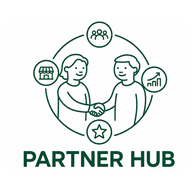
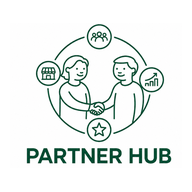
Add files via upload

Changed region(s): [[0.0938, 0.0938, 0.9062, 0.875]]

diff --git a/app.js b/app.js
@@ -1,1 +1,26 @@
-const PH=window.PH||{d:{tiendas:[],turnos:[],puestos:[],regiones:[],dms:[],meses:[]},r:[]};const D=PH.d;const rows=PH.r.map(a=>({num:a[0],nombre:a[1],ingreso:a[2],tienda:D.tiendas[a[3]]||'',turno:D.turnos[a[4]]||'',puesto:D.puestos[a[5]]||'',region:D.regiones[a[6]]||'',sexo:a[7]||'',nac:a[8],dm:D.dms[a[9]]||'',mes:D.meses[a[10]]||''}));const $=s=>document.querySelector(s);const $$=s=>[...document.querySelectorAll(s)];const monthNames=['Enero','Febrero','Marzo','Abril','Mayo','Junio','Julio','Agosto','Septiembre','Octubre','Noviembre','Diciembre'];function fmtMonth(d){let x=new Date(d+'T00:00:00');return isNaN(x)?d:monthNames[x.getMonth()]+' '+x.getFullYear()}function ymd(d){return new Date(d+'T00:00:00')}function yearsBetween(from,to){let a=ymd(from),b=ymd(to);if(isNaN(a)||isNaN(b))return 0;let y=b.getFullYear()-a.getFullYear();if(b.getMonth()<a.getMonth()||(b.getMonth()==a.getMonth()&&b.getDate()<a.getDate()))y--;return Math.max(0,y)}function dayOf(d){let x=ymd(d);return isNaN(x)?'--':String(x.getDate()).padStart(2,'0')}function monthNum(d){let x=ymd(d);return isNaN(x)?0:x.getMonth()+1}function unique(a){return [...new Set(a.filter(Boolean))].sort((x,y)=>String(x).localeCompare(String(y),'es'))}const regions=unique(D.regiones);const months=unique(D.meses).sort();function opt(el,items,all){el.innerHTML=(all?`<option value="">${all}</option>`:'')+items.map(v=>`<option value="${String(v).replaceAll('"','&quot;')}">${v.includes('-')?fmtMonth(v):v}</option>`).join('')}opt($('#regionFilter'),regions,'Todas');opt($('#monthFilter'),months,'');let now=new Date();let same=months.find(m=>{let x=ymd(m);return x.getFullYear()==now.getFullYear()&&x.getMonth()==now.getMonth()});$('#monthFilter').value=same||months.at(-1)||'';function base(){let reg=$('#regionFilter').value, mes=$('#monthFilter').value;return rows.filter(r=>(!reg||r.region==reg)&&(!mes||r.mes==mes))}function setStoreOptions(){let data=base(),stores=unique(data.map(r=>r.tienda)),cur=$('#storeFilter').value;opt($('#storeFilter'),stores,'Todas las tiendas');if(stores.includes(cur))$('#storeFilter').value=cur;let a=$('#annivStore').value,b=$('#birthStore').value;opt($('#annivStore'),stores,'Todas las tiendas');opt($('#birthStore'),stores,'Todas las tiendas');if(stores.includes(a))$('#annivStore').value=a;if(stores.includes(b))$('#birthStore').value=b}function roleKey(p){let s=(p||'').toLowerCase();if(s.includes('gerente')&&!s.includes('sub'))return'Gerente';if(s.includes('sub'))return'Subgerente';if(s.includes('super'))return'Supervisor';return'Baristas'}function filteredStore(data){let st=$('#storeFilter').value;return data.filter(r=>!st||r.tienda==st)}function renderPartners(){setStoreOptions();let data=filteredStore(base());$('#kpiPartners').textContent=data.length;$('#kpiStores').textContent=unique(data.map(r=>r.tienda)).length;$('#kpiDM').textContent=unique(data.map(r=>r.dm)).length;let f=data.filter(r=>r.sexo=='F').length,m=data.filter(r=>r.sexo=='M').length,t=f+m,fp=t?Math.round(f/t*100):0,mp=t?100-fp:0;$('#femalePct').textContent=fp+'%';$('#malePct').textContent=mp+'%';$('#genderText').textContent=fp+'%';$('#genderDonut').style.background=`conic-gradient(var(--green) 0 ${fp*3.6}deg,#cfe2d9 ${fp*3.6}deg 360deg)`;let html='',order=['Gerente','Subgerente','Supervisor','Baristas'];for(let role of order){let list=data.filter(r=>roleKey(r.puesto)==role).sort((a,b)=>a.nombre.localeCompare(b.nombre,'es'));html+=`<section class="role"><h3>${role}<span class="badge">${list.length}</span></h3>`+(list.length?list.map(r=>`<div class="partner" data-num="${r.num}" data-mes="${r.mes}"><div><strong>${r.nombre}</strong><small>${r.puesto} · ${r.tienda}</small></div><span class="badge">${r.turno||'—'}</span></div>`).join(''):'<div class="empty">Sin partners</div>')+`</section>`}$('#hierarchy').innerHTML=html;$$('.partner').forEach(el=>el.onclick=()=>showDetail(rows.find(r=>r.num==el.dataset.num&&r.mes==el.dataset.mes)))}function showDetail(r){if(!r)return;$('#detailBody').innerHTML=`<h2>${r.nombre}</h2><dl><dt># Empleado</dt><dd>${r.num}</dd><dt>Puesto</dt><dd>${r.puesto}</dd><dt>Tienda</dt><dd>${r.tienda}</dd><dt>Jornada</dt><dd>${r.turno}</dd><dt>Región</dt><dd>${r.region}</dd><dt>DM</dt><dd>${r.dm}</dd><dt>Ingreso</dt><dd>${r.ingreso}</dd><dt>Antigüedad</dt><dd>${yearsBetween(r.ingreso,r.mes)} años</dd><dt>Sexo</dt><dd>${r.sexo=='F'?'Femenino':r.sexo=='M'?'Masculino':'—'}</dd></dl>`;$('#detail').classList.add('open')}function eventData(type){let data=base(),mes=$('#monthFilter').value,mn=monthNum(mes),store=type=='anniv'?$('#annivStore').value:$('#birthStore').value,q=(type=='anniv'?$('#annivSearch').value:$('#birthSearch').value).toLowerCase(),dateKey=type=='anniv'?'ingreso':'nac';return data.filter(r=>(!store||r.tienda==store)&&(!q||r.nombre.toLowerCase().includes(q))&&monthNum(r[dateKey])==mn).sort((a,b)=>dayOf(a[dateKey])-dayOf(b[dateKey])||a.nombre.localeCompare(b.nombre,'es'))}function renderEvents(){let mes=$('#monthFilter').value;$('#annivSub').textContent=fmtMonth(mes);$('#birthdaySub').textContent=fmtMonth(mes);let ann=eventData('anniv');$('#annivList').innerHTML=ann.length?ann.map(r=>`<div class="card"><div class="day">${dayOf(r.ingreso)}</div><div><b>${r.nombre}</b><small>${r.tienda} · ${r.puesto}</small></div><div class="years">${yearsBetween(r.ingreso,mes)} años</div></div>`).join(''):'<div class="empty">Sin aniversarios en este mes</div>';let bir=eventData('birth');$('#birthList').innerHTML=bir.length?bir.map(r=>`<div class="card"><div class="day">${dayOf(r.nac)}</div><div><b>${r.nombre}</b><small>${r.tienda} · ${r.puesto}</small></div><div class="years">🎂</div></div>`).join(''):'<div class="empty">Sin cumpleaños en este mes</div>'}function renderAll(){renderPartners();renderEvents()}$$('.tab').forEach(b=>b.onclick=()=>{$$('.tab').forEach(x=>x.classList.remove('active'));$$('.view').forEach(x=>x.classList.remove('active'));b.classList.add('active');$('#'+b.dataset.tab).classList.add('active')});['regionFilter','monthFilter','storeFilter','annivStore','birthStore'].forEach(id=>$('#'+id).addEventListener('change',renderAll));['annivSearch','birthSearch'].forEach(id=>$('#'+id).addEventListener('input',renderEvents));$('#closeDetail').onclick=()=>$('#detail').classList.remove('open');if('serviceWorker'in navigator)navigator.serviceWorker.register('sw.js');renderAll();
+const H=window.PARTNER_HEADERS, R=window.PARTNER_ROWS.map(r=>Object.fromEntries(H.map((h,i)=>[h,r[i]||''])));
+const months=['Enero','Febrero','Marzo','Abril','Mayo','Junio','Julio','Agosto','Septiembre','Octubre','Noviembre','Diciembre'];
+const today=new Date();const currentMonth=today.getMonth()+1;
+const $=id=>document.getElementById(id), uniq=a=>[...new Set(a.filter(Boolean))].sort((a,b)=>a.localeCompare(b,'es'));
+const roleRank=p=>/gerente/i.test(p)&&!/sub/i.test(p)?1:/sub/i.test(p)?2:/super/i.test(p)?3:/bar/i.test(p)?4:9;
+const roleName=p=>/gerente/i.test(p)&&!/sub/i.test(p)?'Gerente':/sub/i.test(p)?'Subgerente':/super/i.test(p)?'Supervisor':/bar/i.test(p)?'Baristas':'Otros';
+const dateParts=s=>{let d=new Date((s||'')+'T00:00:00');return isNaN(d)?null:{d,day:d.getDate(),month:d.getMonth()+1,year:d.getFullYear()}};
+function fillSelect(el,items,all='Todas'){el.innerHTML=`<option value="">${all}</option>`+items.map(x=>`<option>${x}</option>`).join('')}
+function init(){document.querySelectorAll('.tab').forEach(b=>b.onclick=()=>{document.querySelectorAll('.tab,.panel').forEach(x=>x.classList.remove('active'));b.classList.add('active');$(b.dataset.tab).classList.add('active')});
+  ['pRegion','aRegion','bRegion'].forEach(id=>fillSelect($(id),uniq(R.map(x=>x.region))));
+  ['aMonth','bMonth'].forEach(id=>{$(id).innerHTML=months.map((m,i)=>`<option value="${i+1}" ${i+1==currentMonth?'selected':''}>${m}</option>`).join('')});
+  ['pRegion','pDM','pStore','aRegion','aDM','aMonth','aSearch','bRegion','bDM','bMonth','bSearch'].forEach(id=>$(id).addEventListener('input',renderAll)); renderAll();
+  if('serviceWorker'in navigator)navigator.serviceWorker.register('sw.js');}
+function filterBase(prefix){let region=$(prefix+'Region')?.value||'',dm=$(prefix+'DM')?.value||'',store=$(prefix+'Store')?.value||'';return R.filter(x=>(!region||x.region==region)&&(!dm||x.dm==dm)&&(!store||x.tienda==store))}
+function cascade(prefix){let region=$(prefix+'Region').value, oldDM=$(prefix+'DM').value, oldStore=$(prefix+'Store')?$(prefix+'Store').value:'';let list=R.filter(x=>!region||x.region==region), dms=uniq(list.map(x=>x.dm));fillSelect($(prefix+'DM'),dms,'Todos');if(dms.includes(oldDM))$(prefix+'DM').value=oldDM;list=list.filter(x=>!$(prefix+'DM').value||x.dm==$(prefix+'DM').value);if($(prefix+'Store')){let stores=uniq(list.map(x=>x.tienda));fillSelect($(prefix+'Store'),stores,'Todas');if(stores.includes(oldStore))$(prefix+'Store').value=oldStore;}}
+function renderPartner(){cascade('p');let data=filterBase('p');if(!data.length)data=R.slice(0,0);let stores=uniq(data.map(x=>x.tienda)),dms=uniq(data.map(x=>x.dm));$('kPartners').textContent=data.length;$('kStores').textContent=stores.length;$('kDMs').textContent=dms.length;$('storeTitle').textContent=$('pStore').value||'Resumen Partner';$('storeMeta').textContent=[$('pRegion').value||'Todas las regiones',$('pDM').value||'Todos los DM'].join(' · ');
+  let f=data.filter(x=>x.sexo=='F').length,m=data.filter(x=>x.sexo=='M').length,pct=data.length?Math.round(f/data.length*100):0;$('donut').style.setProperty('--pct',pct);$('donutPct').textContent=pct+'%';$('womenPct').textContent=pct+'% Mujeres';$('menPct').textContent=(data.length?Math.round(m/data.length*100):0)+'% Hombres';
+  const roles=['Gerente','Subgerente','Supervisor','Baristas'];let max=1;let counts={};roles.forEach(r=>counts[r]=data.filter(x=>roleName(x.puesto)==r).length);max=Math.max(1,...Object.values(counts));$('roleBars').innerHTML=roles.map(r=>`<div class="barRow"><b>${r}</b> <span>${counts[r]}</span><div><i style="width:${counts[r]/max*100}%"></i></div></div>`).join('');
+  let grouped={};data.sort((a,b)=>roleRank(a.puesto)-roleRank(b.puesto)||a.nombre.localeCompare(b.nombre,'es')).forEach(x=>(grouped[roleName(x.puesto)]??=[]).push(x));$('hierarchy').innerHTML=roles.map(r=>{let arr=grouped[r]||[];return `<article class="role"><h2>${r}<span class="badge">${arr.length}</span></h2>${arr.map(personCard).join('')||'<small>Sin partners</small>'}</article>`}).join('');}
+function personCard(x){return `<div class="person" onclick='showDetail(${JSON.stringify(x).replaceAll("'","&#39;")})'><div><b>${x.nombre}</b><small>${x.puesto} · ${x.tienda}</small></div><span class="badge">${x.turno}</span></div>`}
+function yearsSince(s){let p=dateParts(s);if(!p)return 0;let y=today.getFullYear()-p.year;if(today.getMonth()+1<p.month||(today.getMonth()+1==p.month&&today.getDate()<p.day))y--;return Math.max(0,y)}
+function renderCeleb(type){let pre=type=='a'?'a':'b';cascade(pre);let month=+$(pre+'Month').value,search=($(pre+'Search').value||'').toLowerCase();let data=filterBase(pre).filter(x=>{let p=dateParts(type=='a'?x.ingreso:x.nac);return p&&p.month==month&&(!search||(x.nombre+' '+x.tienda).toLowerCase().includes(search))}).sort((x,y)=>dateParts(type=='a'?x.ingreso:x.nac).day-dateParts(type=='a'?y.ingreso:y.nac).day||x.nombre.localeCompare(y.nombre,'es'));
+  $(pre+'MonthTitle').textContent=months[month-1];$(pre+'Count').textContent=data.length+(type=='a'?' aniversarios':' cumpleaños');let html=data.slice(0,48).map(x=>{let p=dateParts(type=='a'?x.ingreso:x.nac), years=yearsSince(x.ingreso);return `<div class="celebration"><b>${String(p.day).padStart(2,'0')} · ${x.nombre}</b><small>${x.tienda} · ${x.dm}</small>${type=='a'?`<small>${years} años en la marca</small>`:''}</div>`}).join('')||'<div class="celebration"><b>Sin registros para este filtro</b><small>Ajusta Región, DM o Mes.</small></div>';$(pre+'List').innerHTML=html;}
+function renderAll(){renderPartner();renderCeleb('a');renderCeleb('b')}
+function showDetail(x){$('detailBody').innerHTML=`<h2>${x.nombre}</h2><p><b># Empleado:</b> ${x.num}</p><p><b>Puesto:</b> ${x.puesto}</p><p><b>Tienda:</b> ${x.tienda}</p><p><b>DM:</b> ${x.dm}</p><p><b>Región:</b> ${x.region}</p><p><b>Jornada:</b> ${x.turno}</p><p><b>Ingreso:</b> ${x.ingreso} · ${yearsSince(x.ingreso)} años</p>`;$('detail').showModal()}
+init();

diff --git a/index.html b/index.html
@@ -1,1 +1,21 @@
-<!doctype html><html lang="es"><head><meta charset="utf-8"><meta name="viewport" content="width=device-width,initial-scale=1,viewport-fit=cover"><title>Partner Hub CN</title><meta name="theme-color" content="#006241"><link rel="manifest" href="manifest.webmanifest"><link rel="apple-touch-icon" href="assets/icon-192.png"><link rel="stylesheet" href="styles.css"></head><body><header class="hero"><img src="assets/partner-hub-logo.webp" alt="Partner Hub" class="logo"><div><h1>Partner Hub</h1><p>Todo el talento en un solo lugar</p></div></header><section class="filters"><label>Región<select id="regionFilter"></select></label><label>Mes<select id="monthFilter"></select></label></section><nav class="tabs"><button class="tab active" data-tab="partners">Partner</button><button class="tab" data-tab="anniv">Aniversarios</button><button class="tab" data-tab="birthdays">Cumpleaños</button></nav><main><section id="partners" class="view active"><div class="panel"><label>Tienda<select id="storeFilter"></select></label><div class="kpis"><div><b id="kpiPartners">0</b><span>Partners</span></div><div><b id="kpiStores">0</b><span>Tiendas</span></div><div><b id="kpiDM">0</b><span>DM</span></div></div><div class="gender"><div class="donut" id="genderDonut"><span id="genderText">0%</span></div><div class="legend"><p><b id="femalePct">0%</b> Mujeres</p><p><b id="malePct">0%</b> Hombres</p></div></div></div><div id="hierarchy" class="hierarchy"></div></section><section id="anniv" class="view"><div class="slide"><h2>Happy Anniversary</h2><p id="annivSub">Mes</p><div class="miniFilters"><input id="annivSearch" placeholder="Filtrar nombre de partner"><select id="annivStore"></select></div><div id="annivList" class="cards"></div></div></section><section id="birthdays" class="view"><div class="slide"><h2>Happy Birthday</h2><p id="birthdaySub">Mes</p><div class="miniFilters"><input id="birthSearch" placeholder="Filtrar nombre de partner"><select id="birthStore"></select></div><div id="birthList" class="cards"></div></div></section></main><aside id="detail" class="detail"><button id="closeDetail">×</button><div id="detailBody"></div></aside><script src="data/partners.js"></script><script src="app.js"></script></body></html>
+<!doctype html><html lang="es"><head><meta charset="utf-8"><meta name="viewport" content="width=device-width,initial-scale=1,viewport-fit=cover"><meta name="theme-color" content="#006241"><title>Partner Hub</title><link rel="manifest" href="manifest.webmanifest"><link rel="stylesheet" href="styles.css"><link rel="icon" href="assets/icon-192.png"></head><body>
+<header class="hero"><img src="assets/partner-hub-logo.png" alt="Partner Hub"><div><h1>PARTNER HUB</h1><p>Todo el talento en un solo lugar</p></div></header>
+<main class="wrap">
+<nav class="tabs"><button class="tab active" data-tab="partner">Partner</button><button class="tab" data-tab="anniv">Aniversarios</button><button class="tab" data-tab="birth">Cumpleaños</button></nav>
+<section id="partner" class="panel active">
+  <div class="filters three"><label>Región<select id="pRegion"></select></label><label>DM<select id="pDM"></select></label><label>Tienda<select id="pStore"></select></label></div>
+  <div class="grid"><aside class="card summary"><h2 id="storeTitle">Resumen Partner</h2><p id="storeMeta"></p><div class="kpis"><div><b id="kPartners">0</b><span>Partners</span></div><div><b id="kStores">0</b><span>Tiendas</span></div><div><b id="kDMs">0</b><span>DM</span></div></div><div class="donut" id="donut"><span id="donutPct">0%</span></div><div class="legend"><b id="womenPct">0% Mujeres</b><b id="menPct">0% Hombres</b></div><h3>Por posición</h3><div id="roleBars"></div></aside><section id="hierarchy" class="list"></section></div>
+</section>
+<section id="anniv" class="panel">
+  <div class="filters four"><label>Región<select id="aRegion"></select></label><label>DM<select id="aDM"></select></label><label>Mes<select id="aMonth"></select></label><label>Buscar<input id="aSearch" placeholder="Partner o tienda"></label></div>
+  <div class="toolbar"><strong id="aCount">0 aniversarios</strong><button onclick="window.print()">Exportar / Imprimir</button></div>
+  <div class="slide anniv"><div><h2>Happy<br>Anniversary</h2><h3 id="aMonthTitle">Mes</h3></div><div id="aList" class="celebrationList"></div></div>
+</section>
+<section id="birth" class="panel">
+  <div class="filters four"><label>Región<select id="bRegion"></select></label><label>DM<select id="bDM"></select></label><label>Mes<select id="bMonth"></select></label><label>Buscar<input id="bSearch" placeholder="Partner o tienda"></label></div>
+  <div class="toolbar"><strong id="bCount">0 cumpleaños</strong><button onclick="window.print()">Exportar / Imprimir</button></div>
+  <div class="slide birth"><div><h2>Happy<br>Birthday</h2><h3 id="bMonthTitle">Mes</h3></div><div id="bList" class="celebrationList"></div></div>
+</section>
+</main>
+<dialog id="detail"><button class="close" onclick="detail.close()">×</button><div id="detailBody"></div></dialog>
+<script src="data/partners.js"></script><script src="app.js"></script></body></html>

diff --git a/styles.css b/styles.css
@@ -1,1 +1,1 @@
- :root{--green:#006241;--dark:#003d2b;--soft:#eef7f3;--line:#d8e7df;--txt:#12352a}*{box-sizing:border-box}body{margin:0;font-family:system-ui,-apple-system,Segoe UI,Roboto,Arial,sans-serif;background:#f6faf8;color:var(--txt)}.hero{display:flex;align-items:center;gap:14px;padding:18px 16px 10px;background:white;position:sticky;top:0;z-index:2;border-bottom:1px solid var(--line)}.logo{width:78px;height:78px;object-fit:contain}.hero h1{margin:0;color:var(--green);font-size:28px;text-transform:uppercase}.hero p{margin:2px 0 0;font-size:13px;color:#5b756c}.filters{display:grid;grid-template-columns:1fr 1fr;gap:10px;padding:12px 14px;background:white}.filters label,.panel label{font-size:12px;font-weight:700;color:#537267}select,input{width:100%;margin-top:5px;padding:12px 11px;border:1px solid var(--line);border-radius:14px;background:white;font:inherit}.tabs{display:grid;grid-template-columns:repeat(3,1fr);gap:8px;padding:10px 14px;background:#f6faf8;position:sticky;top:107px;z-index:2}.tab{border:0;border-radius:18px;padding:12px 8px;background:#e8f2ed;color:var(--green);font-weight:800}.tab.active{background:var(--green);color:white}.view{display:none;padding:12px 14px 90px}.view.active{display:block}.panel,.role,.slide{background:white;border:1px solid var(--line);border-radius:24px;padding:16px;margin-bottom:14px;box-shadow:0 8px 24px #0b3d2b0d}.kpis{display:grid;grid-template-columns:repeat(3,1fr);gap:8px;margin:14px 0}.kpis div{background:var(--soft);border-radius:18px;padding:13px;text-align:center}.kpis b{display:block;font-size:24px;color:var(--green)}.kpis span{font-size:11px}.gender{display:flex;align-items:center;gap:18px}.donut{width:126px;height:126px;border-radius:50%;background:conic-gradient(var(--green) 0deg,#cfe2d9 0deg);display:grid;place-items:center}.donut:before{content:"";position:absolute;width:82px;height:82px;background:white;border-radius:50%}.donut span{position:relative;font-weight:900;color:var(--green);font-size:22px}.legend p{margin:8px 0}.role h3{margin:0 0 10px;color:var(--green);display:flex;justify-content:space-between}.partner{display:flex;align-items:center;justify-content:space-between;gap:10px;border-top:1px solid var(--line);padding:12px 2px;cursor:pointer}.partner strong{font-size:14px}.partner small{display:block;color:#6d837b}.badge{background:var(--soft);color:var(--green);font-weight:800;border-radius:999px;padding:6px 10px;font-size:12px}.slide{background:linear-gradient(145deg,#fff,#edf8f2)}.slide h2{margin:0;color:var(--green);font-size:29px}.slide>p{margin:3px 0 14px;color:#6d837b}.miniFilters{display:grid;grid-template-columns:1.2fr 1fr;gap:10px}.cards{display:grid;gap:10px;margin-top:14px}.card{background:white;border:1px solid var(--line);border-radius:18px;padding:14px;display:grid;grid-template-columns:auto 1fr auto;gap:12px;align-items:center}.day{width:48px;height:48px;border-radius:16px;background:var(--green);color:white;display:grid;place-items:center;font-weight:900}.card b{display:block}.card small{color:#6d837b}.years{font-weight:900;color:var(--green)}.detail{position:fixed;right:-420px;top:0;width:min(390px,92vw);height:100dvh;background:white;z-index:10;box-shadow:-10px 0 35px #0002;padding:20px;transition:.25s;border-left:1px solid var(--line)}.detail.open{right:0}.detail button{float:right;border:0;background:var(--soft);border-radius:50%;width:38px;height:38px;font-size:26px;color:var(--green)}.detail h2{color:var(--green);margin-top:55px}.detail dl{display:grid;grid-template-columns:120px 1fr;gap:10px}.detail dt{font-weight:800;color:#587468}.empty{text-align:center;color:#71877f;padding:20px}@media(min-width:900px){body{max-width:1100px;margin:auto}.hero{border-radius:0 0 24px 24px}.view.active{display:grid;grid-template-columns:360px 1fr;gap:16px}.slide{grid-column:1/-1}.logo{width:92px;height:92px}}
+:root{--g:#006241;--g2:#0b6b46;--bg:#f3f8f5;--soft:#eaf4ef;--line:#d4e6dd;--txt:#0c2d21}*{box-sizing:border-box}body{margin:0;background:var(--bg);font-family:Inter,system-ui,Segoe UI,Arial,sans-serif;color:var(--txt)}.wrap,.hero{max-width:1180px;margin:auto}.hero{display:flex;gap:20px;align-items:center;background:white;margin-top:18px;border-radius:0 0 24px 24px;padding:26px 30px;box-shadow:0 1px 0 var(--line)}.hero img{width:92px}.hero h1{margin:0;color:var(--g);font-size:30px}.hero p{margin:4px 0 0;color:#536b60}.tabs{display:grid;grid-template-columns:repeat(3,1fr);gap:10px;margin:18px 14px}.tab{border:0;border-radius:18px;padding:14px;font-weight:800;color:var(--g);background:var(--soft);cursor:pointer}.tab.active{background:var(--g);color:white}.panel{display:none;padding:0 14px 28px}.panel.active{display:block}.filters{display:grid;gap:10px;margin:0 0 14px}.filters.three{grid-template-columns:repeat(3,1fr)}.filters.four{grid-template-columns:1fr 1fr 180px 1fr}label{font-size:13px;font-weight:800;color:#486358}select,input{width:100%;margin-top:6px;border:1px solid var(--line);border-radius:14px;background:white;padding:14px;font-weight:800}select:focus,input:focus{outline:2px solid var(--g)}.grid{display:grid;grid-template-columns:360px 1fr;gap:16px}.card,.role,.slide{background:white;border:1px solid var(--line);border-radius:22px;box-shadow:0 6px 20px #00624110}.summary{padding:18px;height:max-content;position:sticky;top:12px}.summary h2{margin:0 0 3px;color:var(--g)}.summary p{margin:0 0 12px;color:#667b72}.kpis{display:grid;grid-template-columns:repeat(3,1fr);gap:8px}.kpis div{background:var(--soft);border-radius:16px;padding:14px;text-align:center}.kpis b{display:block;font-size:26px;color:var(--g)}.kpis span{font-size:11px}.donut{--pct:50;width:140px;height:140px;border-radius:50%;margin:16px auto 10px;background:conic-gradient(var(--g) calc(var(--pct)*1%),#d8e9e0 0);display:grid;place-items:center}.donut:before{content:"";position:absolute;width:88px;height:88px;border-radius:50%;background:white}.donut span{position:relative;font-size:25px;font-weight:900;color:var(--g)}.legend{display:flex;justify-content:center;gap:18px}.barRow{margin:10px 0}.barRow div{height:10px;background:#d8e9e0;border-radius:99px;overflow:hidden}.barRow i{display:block;height:100%;background:var(--g);border-radius:99px}.list{display:grid;gap:14px}.role{padding:16px 18px}.role h2{display:flex;justify-content:space-between;margin:0 0 10px;color:var(--g);font-size:21px;border-bottom:1px solid var(--line);padding-bottom:10px}.badge{background:var(--soft);color:var(--g);border-radius:999px;padding:6px 10px;font-size:13px}.person{display:grid;grid-template-columns:1fr auto;gap:8px;align-items:center;padding:11px 0;border-bottom:1px solid #e4f0ea;cursor:pointer}.person:last-child{border-bottom:0}.person b{font-size:14px}.person small{display:block;color:#647870;margin-top:2px}.toolbar{display:flex;justify-content:space-between;align-items:center;margin:10px 0}.toolbar button{border:0;background:var(--g);color:white;border-radius:14px;padding:12px 16px;font-weight:900}.slide{position:relative;min-height:720px;overflow:hidden;padding:34px;background-size:cover;background-position:center}.slide.anniv{background-image:url(assets/anniversary-template.png)}.slide.birth{background-image:url(assets/birthday-template.png)}.slide h2{position:absolute;right:80px;bottom:42px;font-size:56px;line-height:1.05;color:#244c32;text-align:right;margin:0}.slide h3{position:absolute;top:26px;left:45%;font-size:42px;color:var(--g);font-family:cursive;margin:0}.celebrationList{display:grid;grid-template-columns:repeat(2,1fr);gap:10px;max-width:950px;margin:165px 60px 120px}.celebration{background:rgba(255,255,255,.92);border:1px solid var(--line);border-radius:16px;padding:11px 14px}.celebration b{color:var(--g)}.celebration small{display:block;color:#556d62}dialog{border:0;border-radius:22px;padding:22px;max-width:480px;width:92%;box-shadow:0 20px 70px #0004}.close{float:right;border:0;background:var(--soft);border-radius:50%;font-size:22px;width:36px;height:36px}@media(max-width:850px){.hero{margin-top:0;border-radius:0 0 20px 20px}.hero img{width:76px}.filters.three,.filters.four,.grid{grid-template-columns:1fr}.summary{position:static}.celebrationList{grid-template-columns:1fr;margin:120px 8px 120px}.slide{min-height:760px;padding:12px}.slide h2{font-size:38px;right:30px}.slide h3{left:42%;font-size:32px}}@media print{body{background:white}.hero,.tabs,.filters,.toolbar,.panel:not(.active){display:none!important}.panel{padding:0}.slide{box-shadow:none;border:0;border-radius:0;width:100%;height:100vh;page-break-after:always}.celebrationList{margin-top:130px}}

diff --git a/sw.js b/sw.js
@@ -1,1 +1,1 @@
-const CACHE='partner-hub-cn-v2';const ASSETS=['./','./index.html','./styles.css','./app.js','./data/partners.js','./manifest.webmanifest','./assets/partner-hub-logo.webp','./assets/icon-192.png','./assets/icon-512.png'];self.addEventListener('install',e=>e.waitUntil(caches.open(CACHE).then(c=>c.addAll(ASSETS))));self.addEventListener('activate',e=>e.waitUntil(caches.keys().then(keys=>Promise.all(keys.filter(k=>k!==CACHE).map(k=>caches.delete(k))))));self.addEventListener('fetch',e=>e.respondWith(caches.match(e.request).then(r=>r||fetch(e.request))));
+const CACHE='partner-hub-v3';const ASSETS=['./','index.html','styles.css','app.js','manifest.webmanifest','data/partners.js','assets/partner-hub-logo.png','assets/icon-192.png','assets/icon-512.png','assets/birthday-template.png','assets/anniversary-template.png'];self.addEventListener('install',e=>e.waitUntil(caches.open(CACHE).then(c=>c.addAll(ASSETS)).then(()=>self.skipWaiting())));self.addEventListener('activate',e=>e.waitUntil(caches.keys().then(keys=>Promise.all(keys.filter(k=>k!==CACHE).map(k=>caches.delete(k)))).then(()=>self.clients.claim())));self.addEventListener('fetch',e=>e.respondWith(caches.match(e.request).then(r=>r||fetch(e.request))));

diff --git a/README.md b/README.md
@@ -1,3 +1,12 @@
 # Partner Hub CN
 
-PWA lista para GitHub Pages. Incluye Partner, Aniversarios y Cumpleaños con filtros por Región, Mes y Tienda.
+PWA lista para GitHub Pages.
+
+## Incluye
+- Partner: dashboard por Región, DM y Tienda con jerarquía y detalle de partner.
+- Aniversarios: filtros Región, DM y Mes; calcula años con F_INGRESO.
+- Cumpleaños: filtros Región, DM y Mes; muestra día del mes sin edad.
+- Exportación mediante imprimir/guardar PDF usando plantilla visual.
+
+## Publicación
+Sube el contenido de esta carpeta a GitHub Pages y activa Pages desde Settings > Pages > main / root.